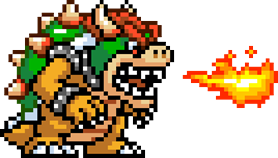
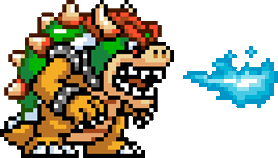
a big UI update

diff --git a/src/java/manager/MapCreator.java b/src/java/manager/MapCreator.java
@@ -26,8 +26,8 @@ class MapCreator {
 	MapCreator(ImageLoader imageLoader) {
 
 		this.imageLoader = imageLoader;
-		BufferedImage sprite = imageLoader.loadImage("/sprite.png");
-		this.backgroundImage = imageLoader.loadImage("/background.png");
+		BufferedImage sprite = imageLoader.loadImage("/images/sprite.png");
+		this.backgroundImage = imageLoader.loadImage("/images/lavaland.png");
 		this.superMushroom = imageLoader.getSubImage(sprite, 2, 5, 48, 48);
 		this.oneUpMushroom = imageLoader.getSubImage(sprite, 3, 5, 48, 48);
 		this.fireFlower = imageLoader.getSubImage(sprite, 4, 5, 48, 48);
@@ -42,13 +42,13 @@ class MapCreator {
 		this.koopaRight = imageLoader.getSubImage(sprite, 4, 3, 48, 64);
 		this.endFlag = imageLoader.getSubImage(sprite, 5, 1, 48, 48);
 		// bowser
-		this.bowser = imageLoader.loadImage("/bowser.png");
-		this.bowserRight = imageLoader.loadImage("/bowserRight.png");
-		this.bowserAtk = imageLoader.loadImage("/bowser_attack.png");
-		this.bowserAtkRight = imageLoader.loadImage("/bowser_attack_right.png");
-		this.koopafly = imageLoader.loadImage("/Koopa_Fly.png");
-		this.koopaflyRight = imageLoader.loadImage("/Koopa_Fly_Right.png");
-		this.chomper = imageLoader.loadImage("/spike.png");
+		this.bowser = imageLoader.loadImage("/images/bowser.png");
+		this.bowserRight = imageLoader.loadImage("/images/bowserRight.png");
+		this.bowserAtk = imageLoader.loadImage("/images/bowser_attack.png");
+		this.bowserAtkRight = imageLoader.loadImage("/images/bowser_attack_right.png");
+		this.koopafly = imageLoader.loadImage("/images/Koopa_Fly.png");
+		this.koopaflyRight = imageLoader.loadImage("/images/Koopa_Fly_Right.png");
+		this.chomper = imageLoader.loadImage("/images/spike.png");
 	}
 
 	Map createMap(String mapPath, double timeLimit) {

diff --git a/src/java/view/UIManager.java b/src/java/view/UIManager.java
@@ -30,13 +30,13 @@ public class UIManager extends JPanel{
 
         mapSelection = new MapSelection();
 
-        BufferedImage sprite = loader.loadImage("/sprite.png");
-        this.heartIcon = loader.loadImage("/heart-icon.png");
+        BufferedImage sprite = loader.loadImage("/images/sprite.png");
+        this.heartIcon = loader.loadImage("/images/heart-icon.png");
         this.coinIcon = loader.getSubImage(sprite, 1, 5, 48, 48);
-        this.selectIcon = loader.loadImage("/select-icon.png");
-        this.startScreenImage = loader.loadImage("/start-screen.png");
-        this.helpScreenImage = loader.loadImage("/help-screen.png");
-        this.aboutScreenImage = loader.loadImage("/about-screen.png");
+        this.selectIcon = loader.loadImage("/images/select-icon.png");
+        this.startScreenImage = loader.loadImage("/images/start-screen.png");
+        this.helpScreenImage = loader.loadImage("/images/help-screen.png");
+        this.aboutScreenImage = loader.loadImage("/images/about-screen.png");
         try {
             InputStream in = getClass().getResourceAsStream("/media/font/mario-font.ttf");
             gameFont = Font.createFont(Font.TRUETYPE_FONT, in);

diff --git a/src/java/view/ImageLoader.java b/src/java/view/ImageLoader.java
@@ -17,10 +17,10 @@ public class ImageLoader {
 
 
     public ImageLoader(){
-        marioForms = loadImage("/mario-forms.png");
-        brickAnimation = loadImage("/brick-animation.png");
-        bowser = loadImage("/bowser.png");
-        koopafly = loadImage("/Koopa_Fly.png");
+        marioForms = loadImage("/images/black-mario-forms.png");
+        brickAnimation = loadImage("/images/brick-animation.png");
+        bowser = loadImage("/images/bowser.png");
+        koopafly = loadImage("/images/Koopa_Fly.png");
     }
 
     public BufferedImage loadImage(String path){

diff --git a/src/java/model/enemy/Bowser.java b/src/java/model/enemy/Bowser.java
@@ -27,8 +27,8 @@ public class Bowser extends Enemy {
 		this.maxLives = 10; // Set the maximum number of lives
 		this.remainingLives = maxLives;
 		ImageLoader imageLoader = new ImageLoader();
-		BufferedImage fireball = imageLoader.loadImage("/Bowser_FireBall.png");
-		fireballStyle = imageLoader.loadImage("/Bowser_FireBall.png");
+		BufferedImage fireball = imageLoader.loadImage("/images/Bowser_FireBall.png");
+		fireballStyle = imageLoader.loadImage("/images/Bowser_FireBall.png");
 	}
 
 	public void draw(Graphics g) {

diff --git a/src/java/model/brick/SurpriseBrick.java b/src/java/model/brick/SurpriseBrick.java
@@ -21,7 +21,7 @@ public class SurpriseBrick extends Brick{
 
     @Override
     public Prize reveal(GameEngine engine){
-        BufferedImage newStyle = engine.getImageLoader().loadImage("/sprite.png");
+        BufferedImage newStyle = engine.getImageLoader().loadImage("/images/sprite.png");
         newStyle = engine.getImageLoader().getSubImage(newStyle, 1, 2, 48, 48);
 
         if(prize != null){

diff --git a/src/java/model/hero/MarioForm.java b/src/java/model/hero/MarioForm.java
@@ -19,7 +19,7 @@ public class MarioForm {
         this.isFire = isFire;
 
         ImageLoader imageLoader = new ImageLoader();
-        BufferedImage fireball = imageLoader.loadImage("/sprite.png");
+        BufferedImage fireball = imageLoader.loadImage("/images/sprite.png");
         fireballStyle = imageLoader.getSubImage(fireball, 3, 4, 24, 24);
     }
 
